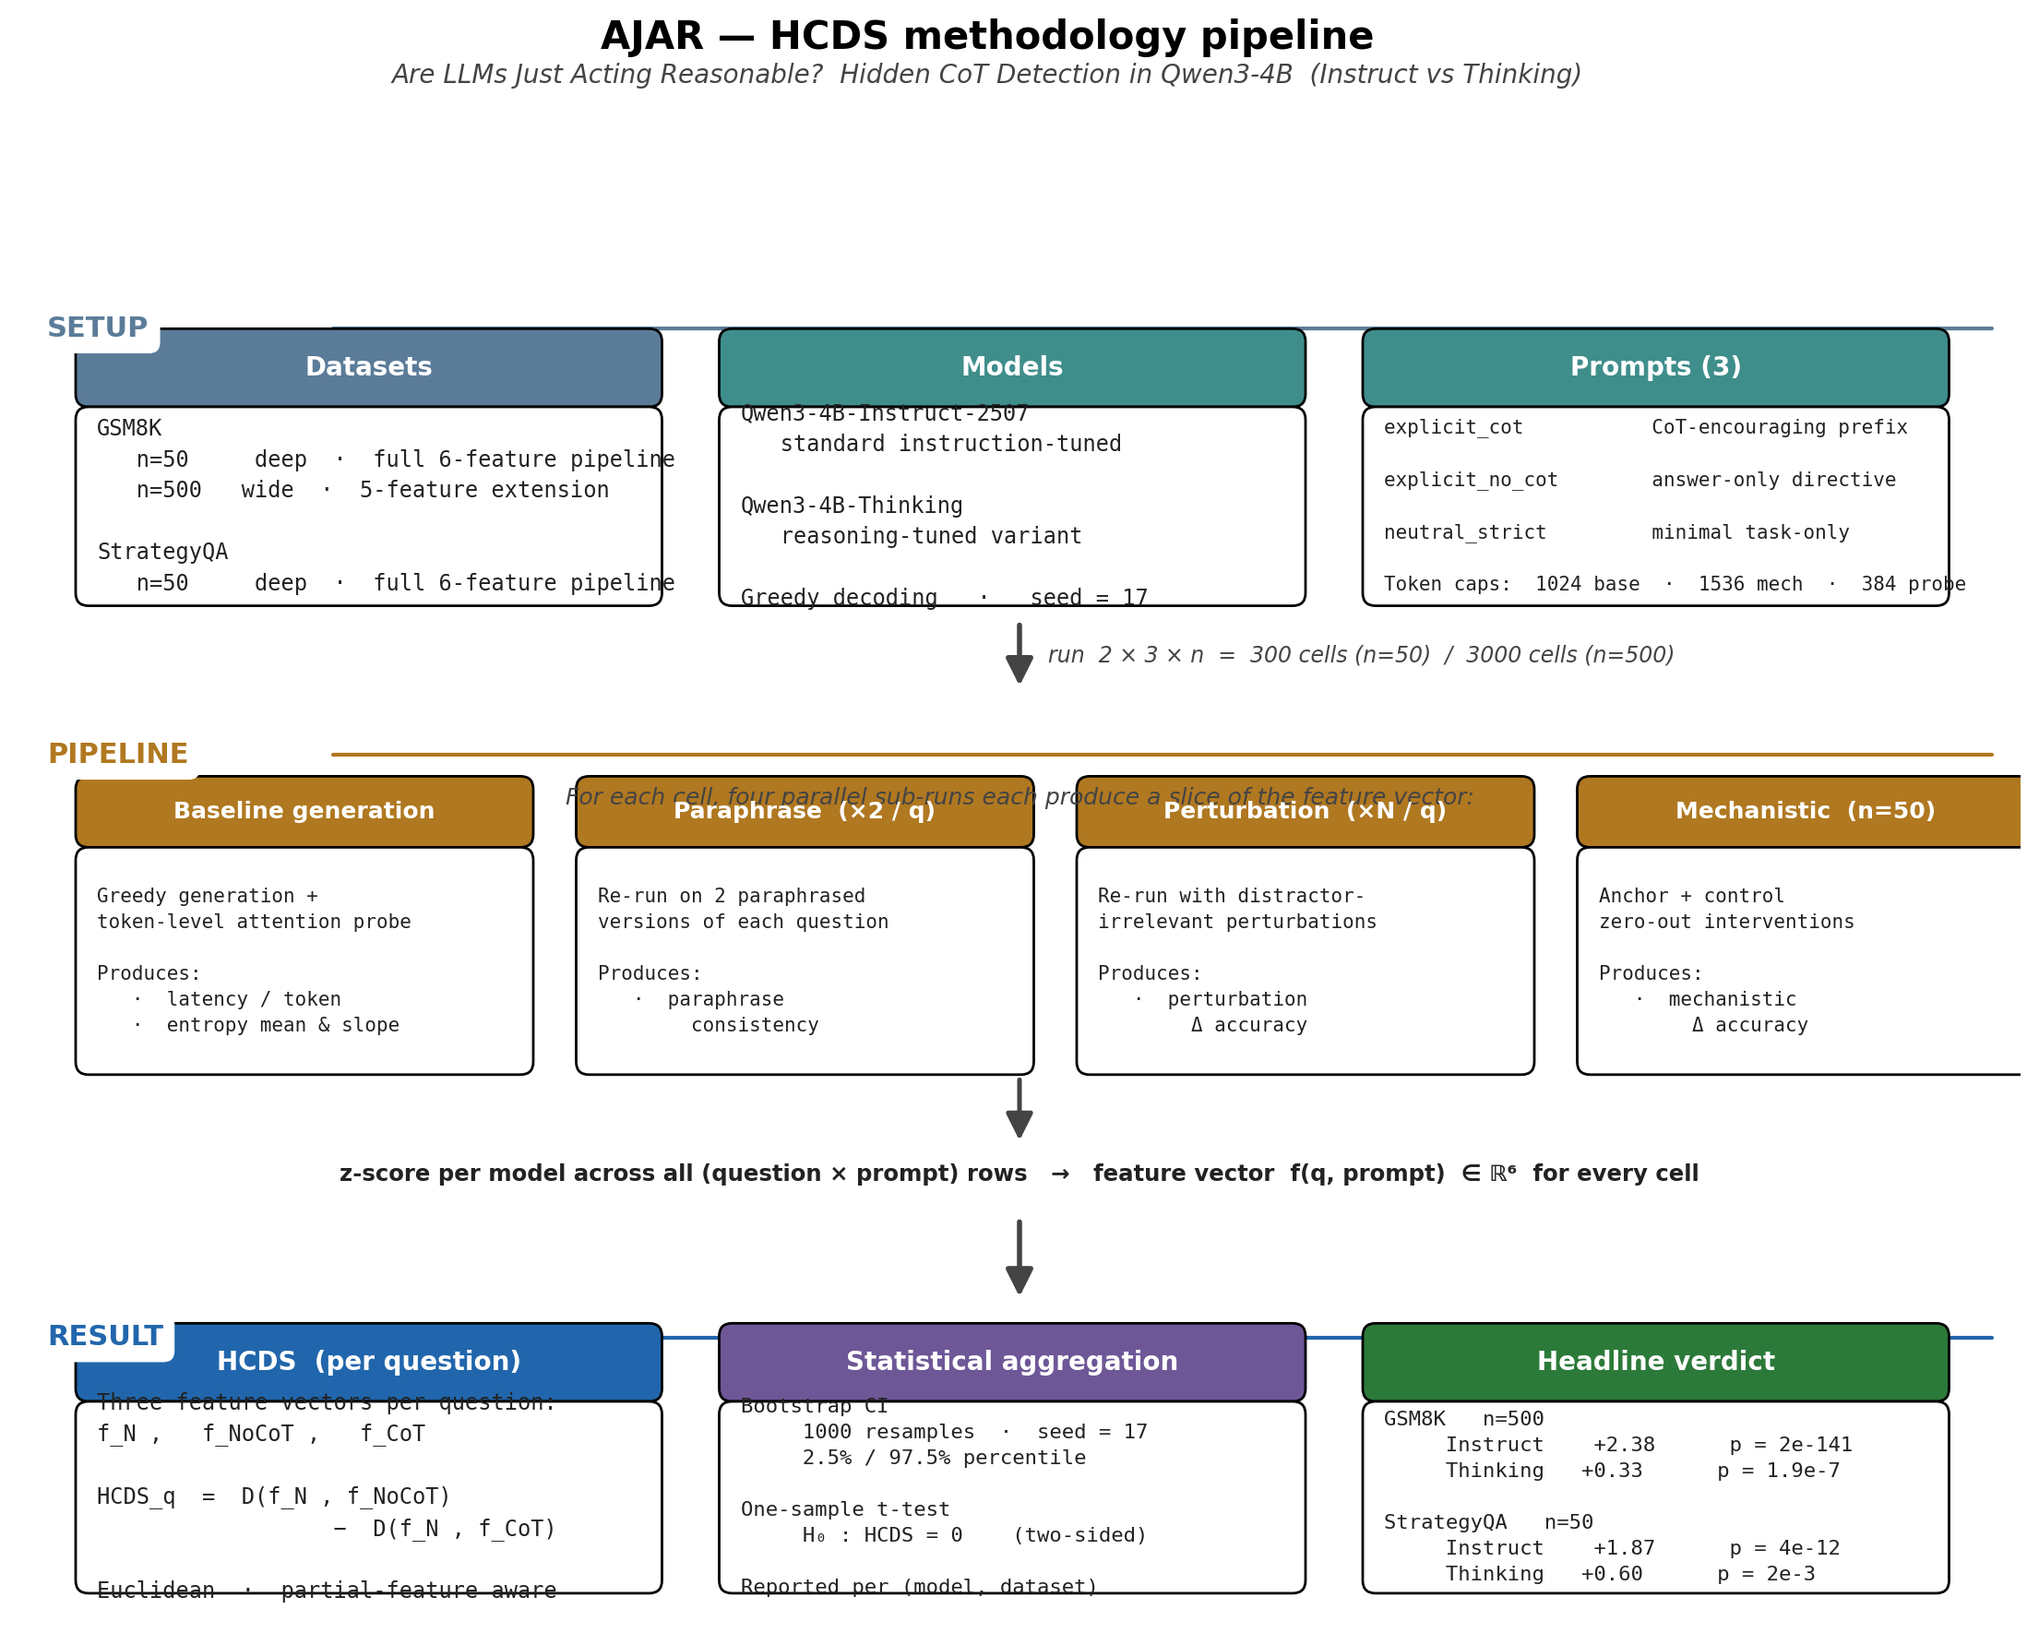
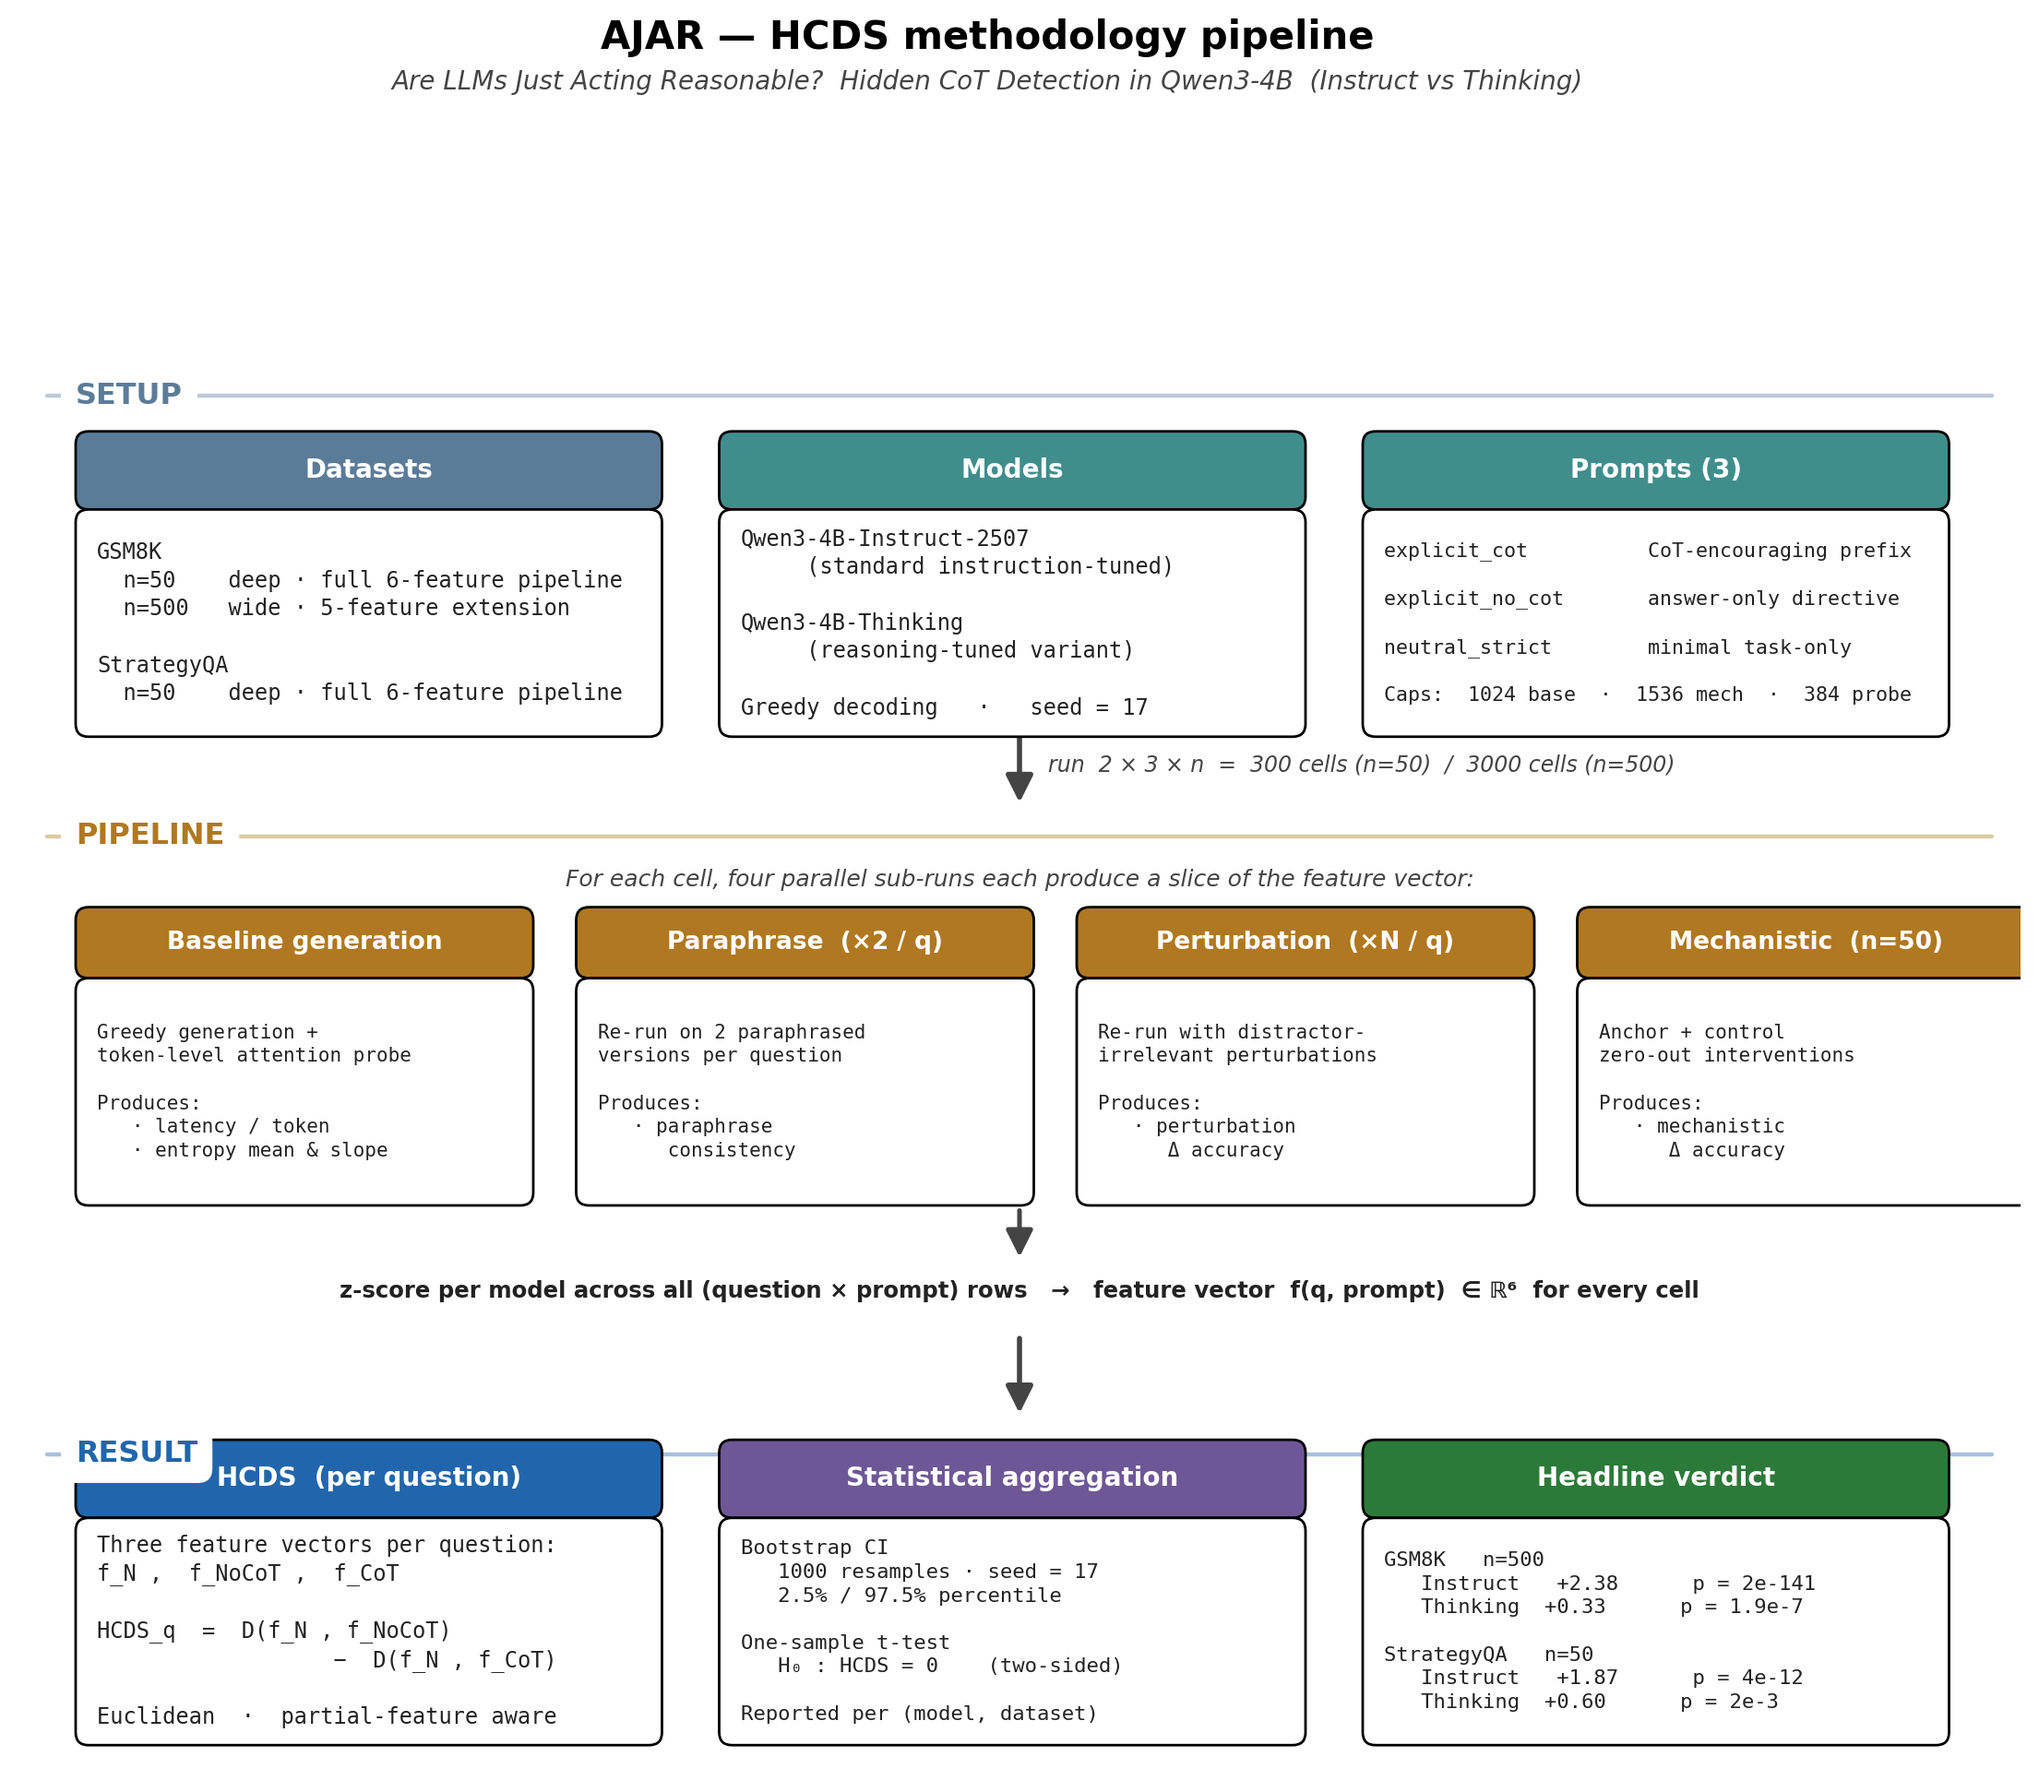
Methods pipeline polish: body text no longer crowds title strips
Three concrete fixes after another visual-inspection pass:

  · Body line_spacing tightened from 1.5 → 1.35.  Text-block height
    no longer overflows into the title strip on the densest cards
    (Models in SETUP, HCDS in RESULT).
  · SETUP body_h bumped 14 → 16 and RESULT body_h bumped 14 → 16,
    with figure height grown 10 → 11 in to absorb the change.
  · Section divider re-architected: the colored accent line now
    spans the FULL card width with the label drawn on top of it
    (white-bbox knockout), instead of starting at x=22 and leaving
    the leftmost card uncovered.

diff --git a/scripts/make_figures.py b/scripts/make_figures.py
@@ -471,9 +471,9 @@ def fig0_methods_pipeline() -> None:
     gaps with directional arrows. Every card uses the same pattern:
     colored title-strip on top, white body below.
     """
-    fig, ax = plt.subplots(figsize=(14, 10))
+    fig, ax = plt.subplots(figsize=(14, 11))
     ax.set_xlim(0, 140)
-    ax.set_ylim(0, 100)
+    ax.set_ylim(0, 110)
     ax.set_axis_off()
 
     def box(x, y, w, h, text, color, text_color="white", fontsize=9.5,
@@ -501,7 +501,7 @@ def fig0_methods_pipeline() -> None:
 
     def card(x, y, w, body_h, title, body, color, *,
              body_fontsize=8.5, title_fontsize=10, body_align="left",
-             body_line_spacing=1.5, title_h=5.5):
+             body_line_spacing=1.35, title_h=5.5):
         """Title-strip + white body card — single consistent pattern."""
         # Title strip
         box(x, y + body_h, w, title_h, title, color,
@@ -512,14 +512,16 @@ def fig0_methods_pipeline() -> None:
             line_spacing=body_line_spacing)
 
     def section_divider(y, text, color):
-        """Section divider — bold colored label + horizontal accent line."""
-        ax.text(2, y, text, ha="left", va="center", fontsize=11,
+        """Section divider — accent line spans full card width with label
+        on the left, padded so label + line don't overlap any card."""
+        # Background line first
+        ax.plot([2, 138], [y, y], color=color, lw=1.6, zorder=1,
+                solid_capstyle="round", alpha=0.4)
+        # Label with white background to mask the line behind it
+        ax.text(4, y, text, ha="left", va="center", fontsize=11.5,
                 weight="bold", color=color, zorder=3,
-                bbox=dict(boxstyle="round,pad=0.4", facecolor="white",
+                bbox=dict(boxstyle="round,pad=0.5", facecolor="white",
                           edgecolor="none"))
-        # Accent line to the right of the label, full width
-        ax.plot([22, 138], [y, y], color=color, lw=1.5, zorder=2,
-                solid_capstyle="round")
 
     def big_arrow(x, y_top, y_bot, label=None, lw=2.2):
         a = FancyArrowPatch((x, y_top), (x, y_bot),
@@ -530,90 +532,92 @@ def fig0_methods_pipeline() -> None:
             ax.text(x + 1.5, (y_top + y_bot) / 2, label,
                     fontsize=8, style="italic", color="#444", va="center")
 
-    # Coordinate plan (y 0-100, drawn bottom-up):
-    #   title         93 - 99
-    #   SETUP label   90.5
-    #   SETUP cards   71 - 89   (body 71-85, title 85-89)
-    #   gap+arrow     63 - 70
-    #   PIPELINE lbl  60.5
-    #   PIPELINE      28 - 59   (sub-cards 36-54, agg row 30-34)
-    #   gap+arrow     22 - 27
-    #   RESULT label  19.5
-    #   RESULT cards   1 - 18   (body 1-13.5, title 13.5-18)
+    # Coordinate plan (y 0-110, top-down):
+    #   title block        100 - 108
+    #   SETUP label         97
+    #   SETUP cards         75 - 95     (body 75-89, title 89-95)  body_h=14
+    #   gap + arrow         68 - 74
+    #   PIPELINE label      66
+    #   PIPELINE caption    63
+    #   PIPELINE sub cards  40 - 60     (body 40-56, title 56-60)  body_h=16
+    #   agg arrow + label   33 - 39
+    #   gap + arrow         26 - 32
+    #   RESULT label        24
+    #   RESULT cards         3 - 22     (body 3-17, title 17-22)   body_h=14
+    card_w = 41
 
     # ==========================================
     # ROW 1 — SETUP
     # ==========================================
-    section_divider(90.5, "SETUP", INSTRUCT_COLOR)
+    section_divider(97, "SETUP", INSTRUCT_COLOR)
 
-    card_w = 41
-    card_body_h = 14
-    card_y = 71
+    setup_body_h = 16
+    setup_y = 73
 
-    card(4, card_y, card_w, card_body_h, "Datasets",
-         "GSM8K\n   n=50     deep  ·  full 6-feature pipeline\n"
-         "   n=500   wide  ·  5-feature extension\n\n"
-         "StrategyQA\n   n=50     deep  ·  full 6-feature pipeline",
+    card(4, setup_y, card_w, setup_body_h, "Datasets",
+         "GSM8K\n  n=50    deep · full 6-feature pipeline\n"
+         "  n=500   wide · 5-feature extension\n\n"
+         "StrategyQA\n  n=50    deep · full 6-feature pipeline",
          INSTRUCT_COLOR, body_fontsize=8.5)
 
-    card(49, card_y, card_w, card_body_h, "Models",
-         "Qwen3-4B-Instruct-2507\n   standard instruction-tuned\n\n"
-         "Qwen3-4B-Thinking\n   reasoning-tuned variant\n\n"
+    card(49, setup_y, card_w, setup_body_h, "Models",
+         "Qwen3-4B-Instruct-2507\n     (standard instruction-tuned)\n\n"
+         "Qwen3-4B-Thinking\n     (reasoning-tuned variant)\n\n"
          "Greedy decoding   ·   seed = 17",
          TEAL, body_fontsize=8.5)
 
-    card(94, card_y, card_w, card_body_h, "Prompts (3)",
-         "explicit_cot           CoT-encouraging prefix\n\n"
-         "explicit_no_cot        answer-only directive\n\n"
-         "neutral_strict         minimal task-only\n\n"
-         "Token caps:  1024 base  ·  1536 mech  ·  384 probe",
-         TEAL, body_fontsize=7.5)
+    card(94, setup_y, card_w, setup_body_h, "Prompts (3)",
+         "explicit_cot          CoT-encouraging prefix\n\n"
+         "explicit_no_cot       answer-only directive\n\n"
+         "neutral_strict        minimal task-only\n\n"
+         "Caps:  1024 base  ·  1536 mech  ·  384 probe",
+         TEAL, body_fontsize=7.8)
 
     # ==========================================
     # GAP 1: Setup → Pipeline
     # ==========================================
-    big_arrow(70, 70, 65, lw=2.0)
-    ax.text(72, 67.5,
+    big_arrow(70, 74, 68, lw=2.0)
+    ax.text(72, 71,
             "run  2 × 3 × n  =  300 cells (n=50)  /  3000 cells (n=500)",
             fontsize=8.5, style="italic", color="#444", va="center")
 
     # ==========================================
     # ROW 2 — PIPELINE
     # ==========================================
-    section_divider(60.5, "PIPELINE", FEATURE_COLOR_DARK)
+    section_divider(66, "PIPELINE", FEATURE_COLOR_DARK)
 
-    ax.text(70, 57,
+    ax.text(70, 62.5,
             "For each cell, four parallel sub-runs each produce a slice of the feature vector:",
             ha="center", fontsize=9, style="italic", color="#444")
 
     sub_w = 32
     sub_body_h = 16
-    sub_y = 38
+    sub_y = 40
     sub_specs = [
         (4,
          "Baseline generation",
          "Greedy generation +\ntoken-level attention probe\n\n"
-         "Produces:\n   ·  latency / token\n   ·  entropy mean & slope"),
+         "Produces:\n   · latency / token\n   · entropy mean & slope"),
         (39,
          "Paraphrase  (×2 / q)",
-         "Re-run on 2 paraphrased\nversions of each question\n\n"
-         "Produces:\n   ·  paraphrase\n        consistency"),
+         "Re-run on 2 paraphrased\nversions per question\n\n"
+         "Produces:\n   · paraphrase\n      consistency"),
         (74,
          "Perturbation  (×N / q)",
          "Re-run with distractor-\nirrelevant perturbations\n\n"
-         "Produces:\n   ·  perturbation\n        Δ accuracy"),
+         "Produces:\n   · perturbation\n      Δ accuracy"),
         (109,
          "Mechanistic  (n=50)",
          "Anchor + control\nzero-out interventions\n\n"
-         "Produces:\n   ·  mechanistic\n        Δ accuracy"),
+         "Produces:\n   · mechanistic\n      Δ accuracy"),
     ]
     for x0, title, body in sub_specs:
         card(x0, sub_y, sub_w, sub_body_h, title, body,
              FEATURE_COLOR_DARK, body_fontsize=7.5,
-             title_fontsize=9, title_h=5)
+             title_fontsize=9.5, title_h=5)
 
-    big_arrow(70, 38, 33, lw=1.8)
-    ax.text(70, 30.5,
+    big_arrow(70, 40, 36, lw=1.8)
+    ax.text(70, 33.5,
             "z-score per model across all (question × prompt) rows   →   "
             "feature vector  f(q, prompt)  ∈ ℝ⁶  for every cell",
             ha="center", fontsize=8.8, color="#222", weight="bold")
@@ -621,37 +625,37 @@ def fig0_methods_pipeline() -> None:
     # ==========================================
     # GAP 2: Pipeline → Result
     # ==========================================
-    big_arrow(70, 28, 22, lw=2.0)
+    big_arrow(70, 31, 25, lw=2.0)
 
     # ==========================================
     # ROW 3 — RESULT
     # ==========================================
-    section_divider(19.5, "RESULT", HCDS_BLUE)
+    section_divider(22.5, "RESULT", HCDS_BLUE)
 
-    res_y = 1.5
-    res_body_h = 13.5
+    res_y = 2
+    res_body_h = 16
 
     card(4, res_y, card_w, res_body_h, "HCDS  (per question)",
          "Three feature vectors per question:\n"
-         "f_N ,   f_NoCoT ,   f_CoT\n\n"
+         "f_N ,  f_NoCoT ,  f_CoT\n\n"
          "HCDS_q  =  D(f_N , f_NoCoT)\n                  −  D(f_N , f_CoT)\n\n"
          "Euclidean  ·  partial-feature aware",
          HCDS_BLUE, body_fontsize=8.5)
 
     card(49, res_y, card_w, res_body_h, "Statistical aggregation",
-         "Bootstrap CI\n     1000 resamples  ·  seed = 17\n"
-         "     2.5% / 97.5% percentile\n\n"
-         "One-sample t-test\n     H₀ : HCDS = 0    (two-sided)\n\n"
+         "Bootstrap CI\n   1000 resamples · seed = 17\n"
+         "   2.5% / 97.5% percentile\n\n"
+         "One-sample t-test\n   H₀ : HCDS = 0    (two-sided)\n\n"
          "Reported per (model, dataset)",
          PURPLE, body_fontsize=8)
 
     card(94, res_y, card_w, res_body_h, "Headline verdict",
          "GSM8K   n=500\n"
-         "     Instruct    +2.38      p = 2e-141\n"
-         "     Thinking   +0.33      p = 1.9e-7\n\n"
+         "   Instruct   +2.38      p = 2e-141\n"
+         "   Thinking  +0.33      p = 1.9e-7\n\n"
          "StrategyQA   n=50\n"
-         "     Instruct    +1.87      p = 4e-12\n"
-         "     Thinking   +0.60      p = 2e-3",
+         "   Instruct   +1.87      p = 4e-12\n"
+         "   Thinking  +0.60      p = 2e-3",
          GREEN, body_fontsize=8)
 
     fig.suptitle("AJAR — HCDS methodology pipeline",
